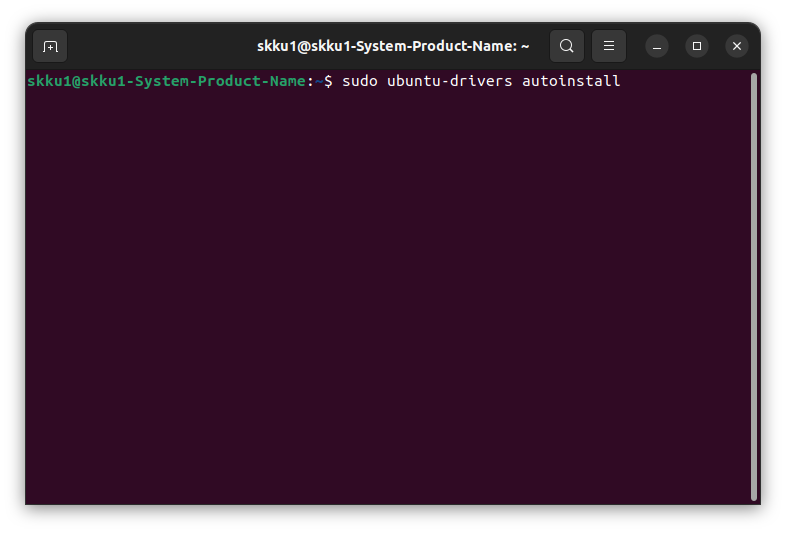
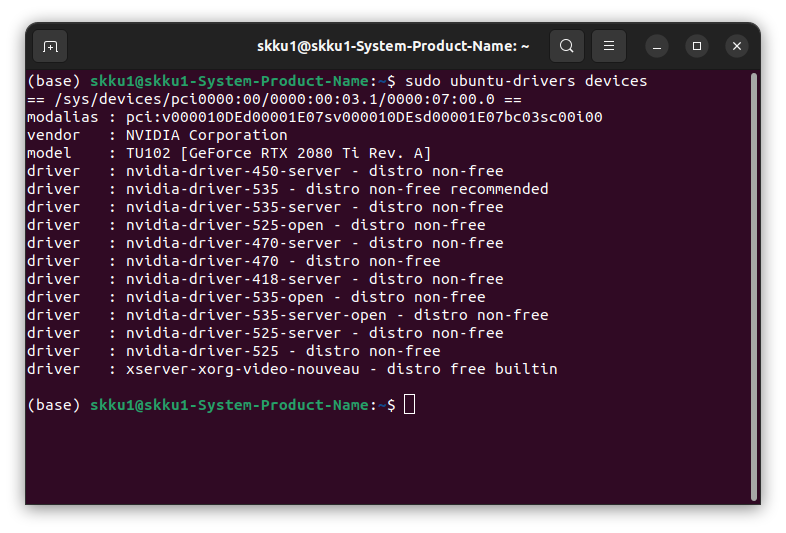
drivers update

Changed region(s): [[0.0305, 0.1201, 0.8244, 0.7205], [0.0305, 0.7505, 0.5191, 0.7805]]

diff --git a/_posts/2023-07-21-manual.md b/_posts/2023-07-21-manual.md
@@ -56,21 +56,26 @@ nvidia-smi
 ![error](../images/nvidia-smi%20error.png)
  처럼 뜨면 2가지 해결법이 있습니다.
  
-> Draft
+1. Driver만 설치[^2]
+
 ```
 sudo add-apt-repository ppa:graphics-drivers/ppa
 sudo apt-get update
+sudo apt-get ubuntu-drivers devices
+```
+
+입력하면 아래와 같은 결과값이 나옵니다.
+![driver](../images/drivers update.png)
+
+ 이때 Recommended가 쓰여있는 nvidia-driver-{버전}을 확인하고
+
+```
 sudo apt-get install nvidia-driver-VERSION
 ```
 
-1. Driver만 설치[^2]
-```
-sudo ubuntu-drivers autoinstall
-```
-![driver](../images/drivers update.png)
-이후 `sudo reboot` 그래도 안 되면 
+이후 `sudo reboot` 하면 Driver 설치가 완료됩니다.
 
-2. Cuda로 이동
+그래도 안 되면 Cuda로 이동
 
 <hr style="border:2px solid gray">
 
@@ -177,7 +182,7 @@ print(torch.backens.cuda.is_built())
 <hr style="border:2px solid gray">
 
 
-<!-- ***이곳부터는 추천하지 않습니다.***
+***이곳부터는 추천하지 않습니다.***
 
 > 추천하지 않는 이유\
 앞으로 할 셋팅은 환경변수를 사용하여 Global하게 할 셋팅이기 때문에 다른 환경들과 충돌이 날 수 있습니다.
@@ -208,6 +213,9 @@ sudo apt-get autoremove && sudo apt-get autoclean
 sudo rm -rf /usr/local/cuda*
 sudo reboot
 ```
+
+>Draft
+
 ## 4.1 CUDA 다운로드
 [CUDA Toolkit Download](https://developer.nvidia.com/cuda-downloads?target_os=Linux&target_arch=x86_64&Distribution=Ubuntu&target_version=22.04&target_type=deb_local)에서\
 *Linux, x86_64, Ubuntu, 22.04, deb(local)*을 선택하고 
@@ -247,7 +255,7 @@ sudo chmod a+r /usr/local/cuda/include/cudnn*.h /usr/local/cuda/lib64/libcudnn*
 ```
 conda install pytorch -y
 ```
-로 pytorch 설치하고 확인을 동일하게 하시면 됩니다. -->
+로 pytorch 설치하고 확인을 동일하게 하시면 됩니다.
 
 
 
